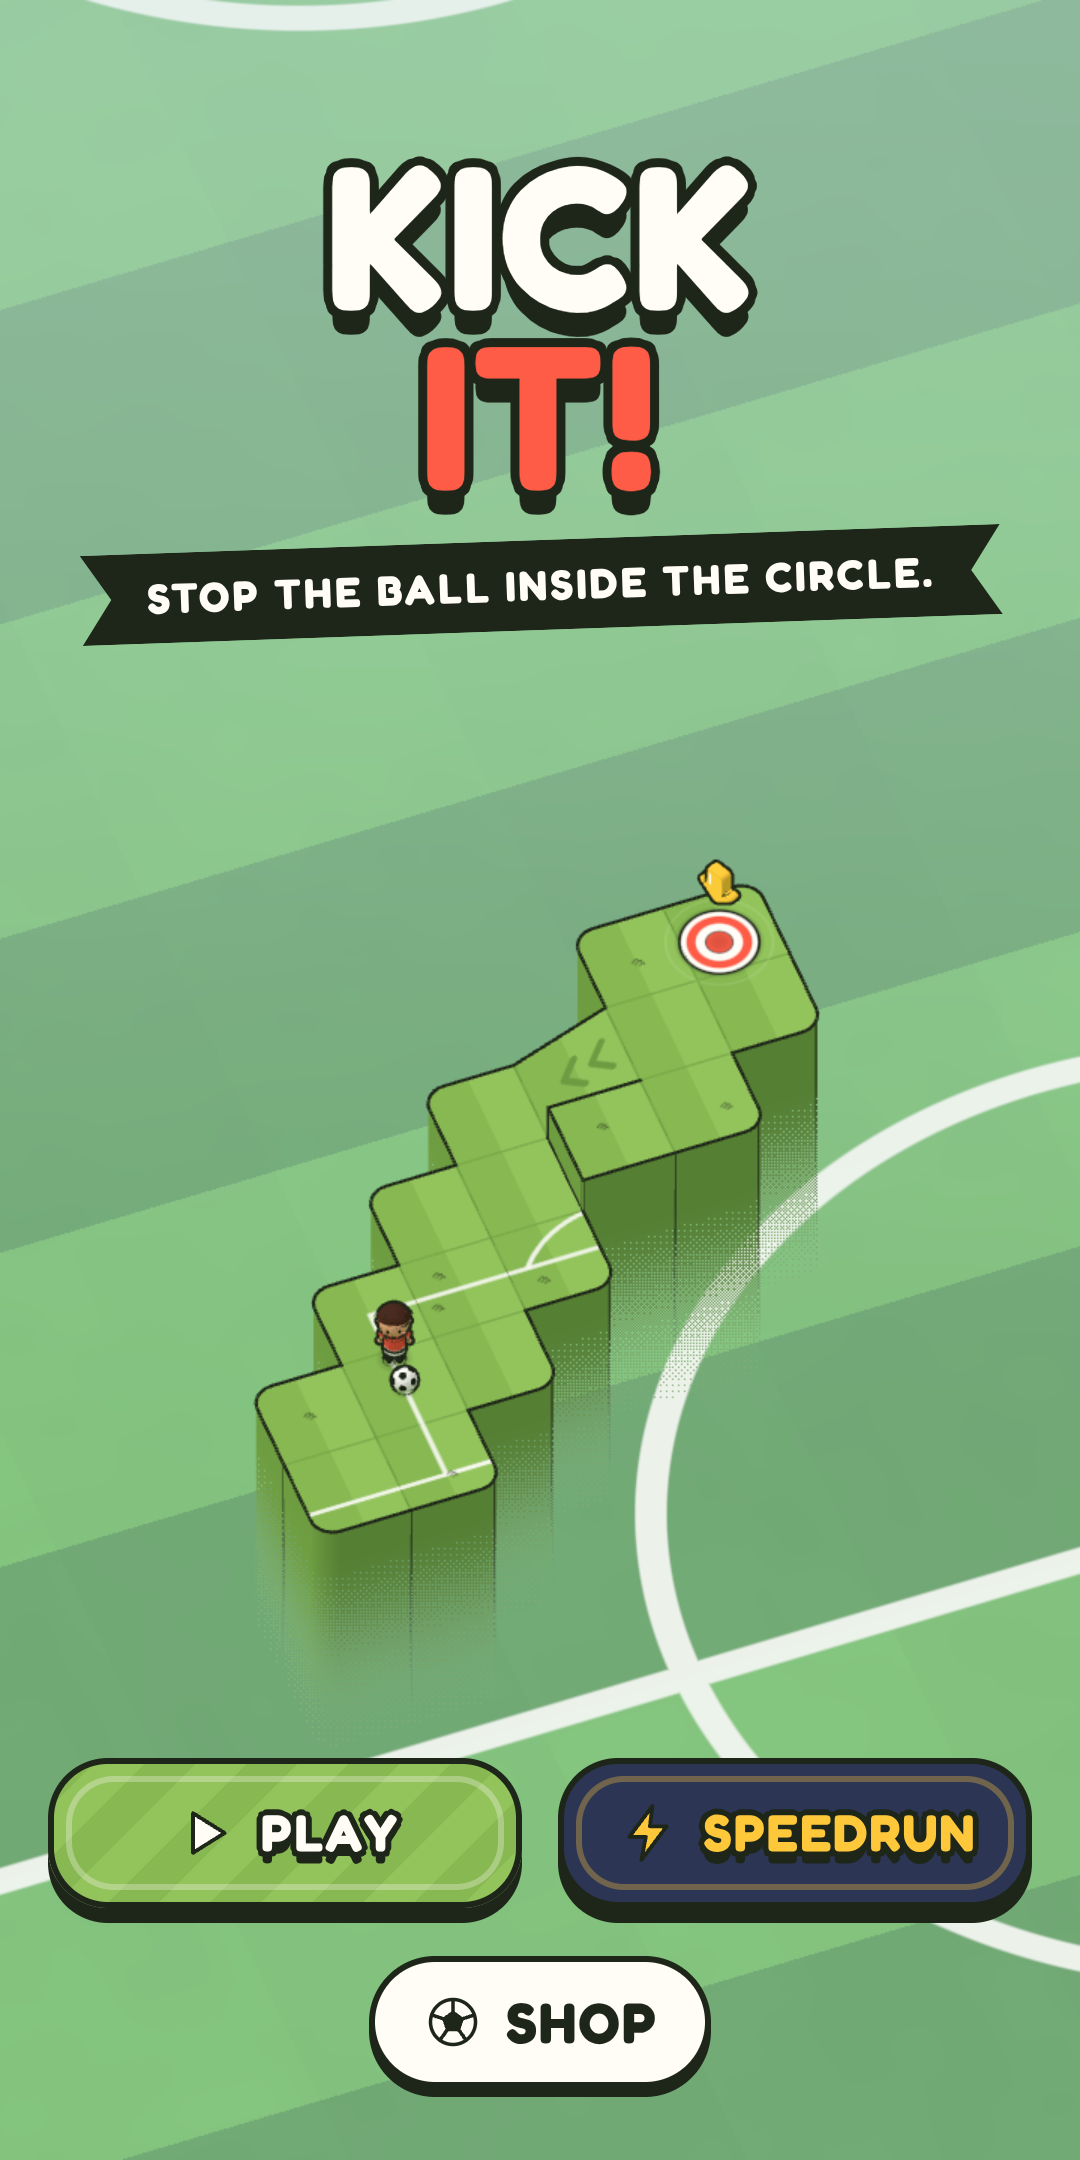
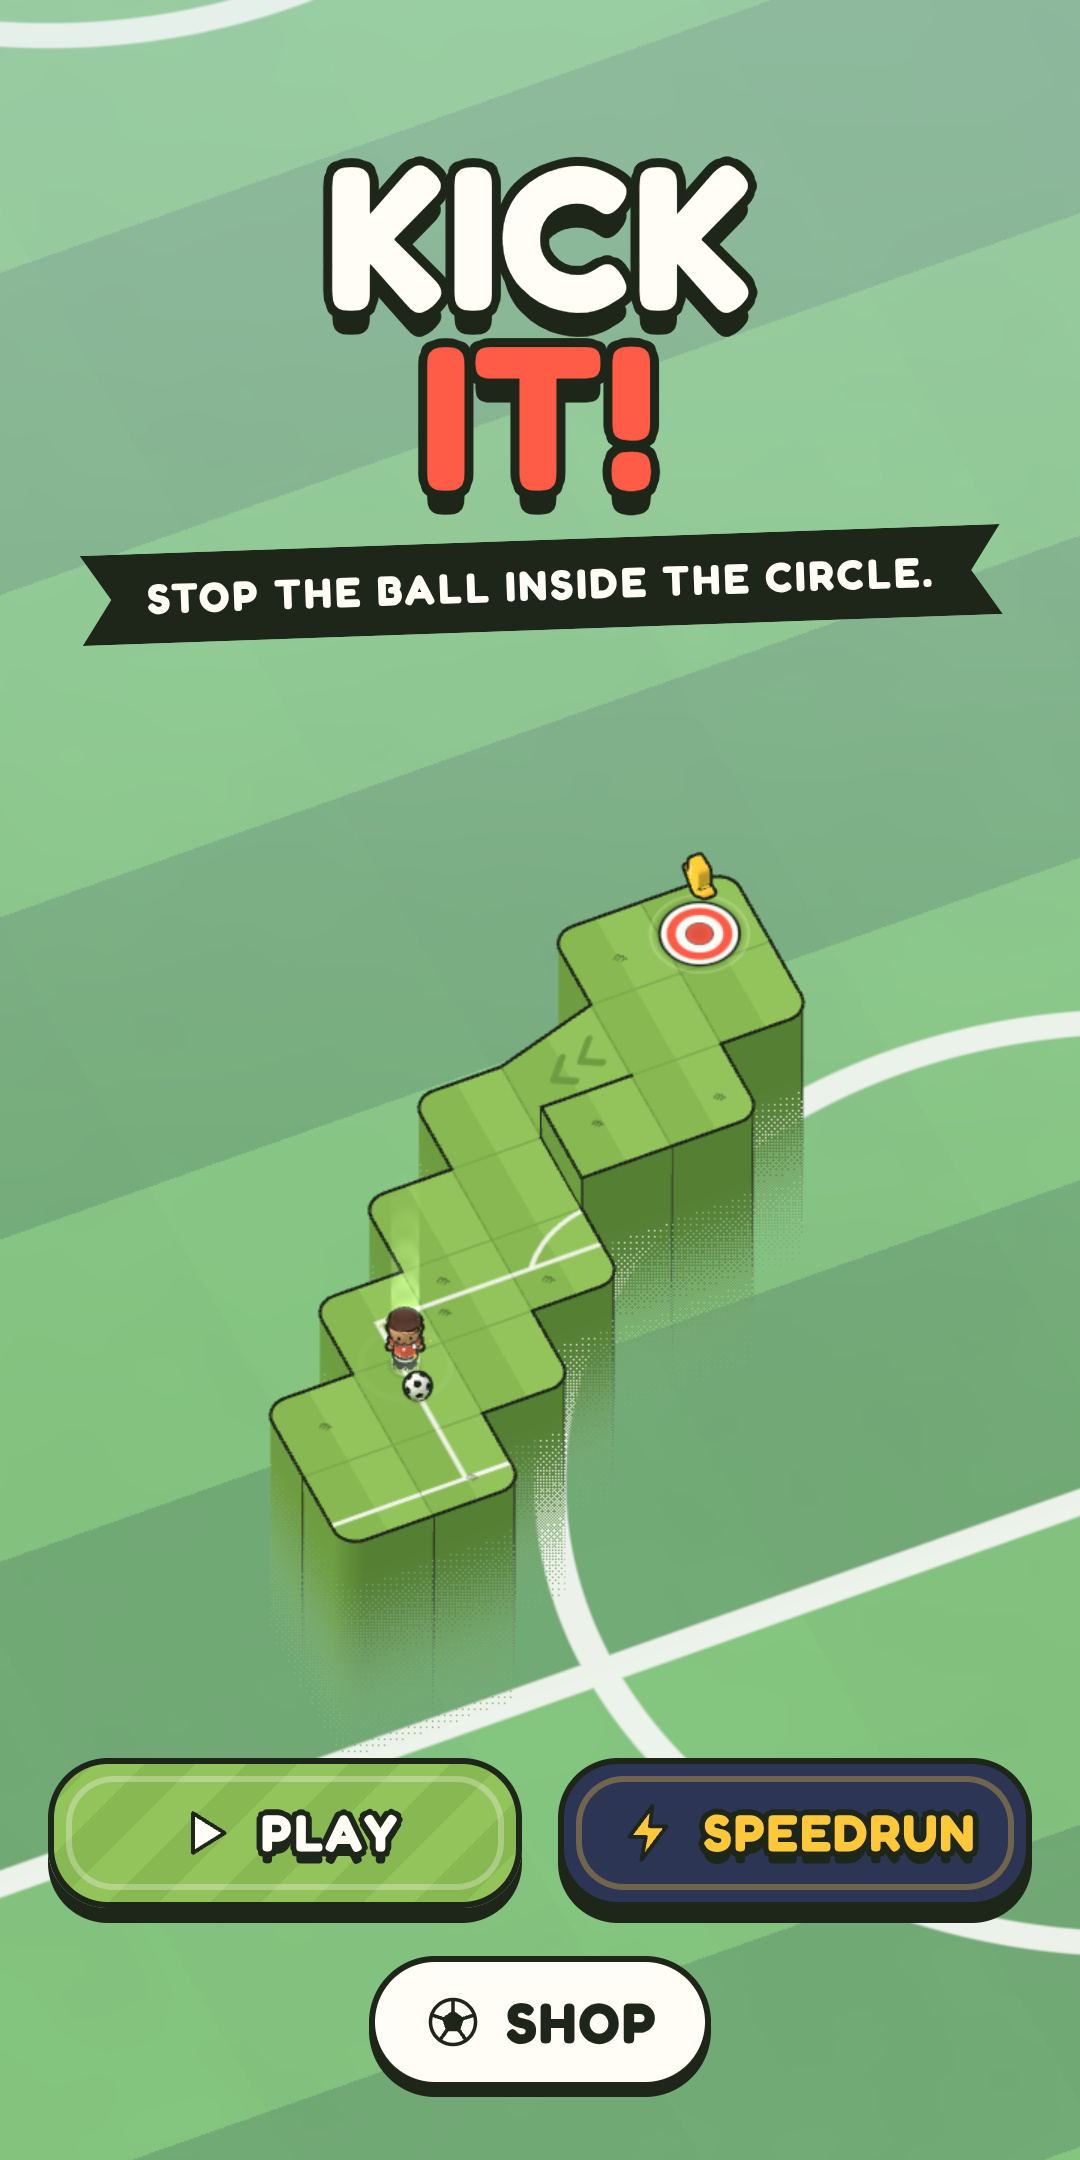
KickIt! 1.6.0: every ball has its own kick burst and rolling trail; new store screenshots

diff --git a/src/skins.ts b/src/skins.ts
@@ -16,32 +16,44 @@ export type Goal =
 /** What a ball is: a stitched football, or one of the round balls painted by src/ball.ts. */
 export type BallKind = 'soccer' | 'tennis' | 'basket' | 'volley' | 'base' | 'beach' | 'pool' | 'cricket' | 'bowling' | 'golf' | 'disco' | 'melon' | 'earth' | 'moon' | 'galaxy' | 'lava';
 
+/**
+ * A ball's own effect: the burst when it is kicked and the trail it leaves as
+ * it rolls. `look`: glowing sparks, or solid little bits (fuzz, dust, seeds);
+ * `move`: they drop like drops, float like dust, or rise like embers.
+ */
+export interface BallFx {
+  colors: string[];
+  look: 'spark' | 'bits';
+  move: 'fall' | 'float' | 'rise';
+}
+
 export interface Skin {
   id: string;
   name: string;
   kind: BallKind;
+  fx: BallFx;
   /** soccer: [hexagons, pentagons]; the round balls: up to four colours their pattern uses, in its order */
   colors: string[];
   goal: Goal;
 }
 
 export const SKINS: Skin[] = [
-  { id: 'classic', name: 'Classic', kind: 'soccer', colors: ['#fbfbf6', '#1e2619'], goal: { kind: 'free' } },
-  { id: 'tennis', name: 'Tennis', kind: 'tennis', colors: ['#d9ec4c', '#f6f8ee'], goal: { kind: 'floor', n: 5 } },
-  { id: 'basket', name: 'Basketball', kind: 'basket', colors: ['#e8772e', '#2a1c14'], goal: { kind: 'floor', n: 10 } },
-  { id: 'volley', name: 'Volleyball', kind: 'volley', colors: ['#ffd23f', '#2b5fd9', '#f7f7f2', '#3b4a63'], goal: { kind: 'floor', n: 20 } },
-  { id: 'base', name: 'Baseball', kind: 'base', colors: ['#f5f0e3', '#d0312d'], goal: { kind: 'floor', n: 30 } },
-  { id: 'beach', name: 'Beach ball', kind: 'beach', colors: ['#ff5c47', '#3fa7f5', '#ffd84a', '#fbfbf6'], goal: { kind: 'floor', n: 40 } },
-  { id: 'moon', name: 'Moon', kind: 'moon', colors: ['#d9dbe1', '#7f838f', '#ffffff'], goal: { kind: 'floor', n: 50 } },
-  { id: 'pool', name: '8-Ball', kind: 'pool', colors: ['#17181c', '#fbfbf6'], goal: { kind: 'clears', n: 25 } },
-  { id: 'cricket', name: 'Cricket', kind: 'cricket', colors: ['#b3262b', '#f3ead2'], goal: { kind: 'clears', n: 50 } },
-  { id: 'bowling', name: 'Bowling', kind: 'bowling', colors: ['#2b2f8f', '#8a5ae0', '#0d0d18'], goal: { kind: 'clears', n: 100 } },
-  { id: 'golf', name: 'Golf', kind: 'golf', colors: ['#f7f8f3', '#d9ddd3'], goal: { kind: 'ones', n: 5 } },
-  { id: 'disco', name: 'Disco', kind: 'disco', colors: ['#e9eef5', '#7fe8ff', '#ff8ad8', '#3d4250'], goal: { kind: 'ones', n: 25 } },
-  { id: 'melon', name: 'Watermelon', kind: 'melon', colors: ['#97d66e', '#2f7a35'], goal: { kind: 'speedrun' } },
-  { id: 'galaxy', name: 'Galaxy', kind: 'galaxy', colors: ['#121a4a', '#4b2a8c', '#ff6fb5', '#fff6d8'], goal: { kind: 'speedrun', under: 20 * 60 } },
-  { id: 'earth', name: 'Earth', kind: 'earth', colors: ['#2f80dc', '#63bd57', '#3f8f40', '#f4f8fb'], goal: { kind: 'speedrun', under: 14 * 60 } },
-  { id: 'lava', name: 'Lava', kind: 'lava', colors: ['#2b211f', '#ff5a1f', '#ffd23a'], goal: { kind: 'speedrun', under: 10 * 60 } },
+  { id: 'classic', name: 'Classic', kind: 'soccer', colors: ['#fbfbf6', '#1e2619'], fx: { colors: ['#ffffff', '#ffd84a'], look: 'spark', move: 'fall' }, goal: { kind: 'free' } },
+  { id: 'tennis', name: 'Tennis', kind: 'tennis', colors: ['#d9ec4c', '#f6f8ee'], fx: { colors: ['#d9ec4c', '#eef7a8', '#c3d93a'], look: 'bits', move: 'float' }, goal: { kind: 'floor', n: 5 } },
+  { id: 'basket', name: 'Basketball', kind: 'basket', colors: ['#e8772e', '#2a1c14'], fx: { colors: ['#ff8a3d', '#ffd08a', '#e8772e'], look: 'spark', move: 'fall' }, goal: { kind: 'floor', n: 10 } },
+  { id: 'volley', name: 'Volleyball', kind: 'volley', colors: ['#ffd23f', '#2b5fd9', '#f7f7f2', '#3b4a63'], fx: { colors: ['#ffd23f', '#2b5fd9', '#ffffff'], look: 'spark', move: 'fall' }, goal: { kind: 'floor', n: 20 } },
+  { id: 'base', name: 'Baseball', kind: 'base', colors: ['#f5f0e3', '#d0312d'], fx: { colors: ['#f5f0e3', '#d0312d', '#e9e2cf'], look: 'bits', move: 'float' }, goal: { kind: 'floor', n: 30 } },
+  { id: 'beach', name: 'Beach ball', kind: 'beach', colors: ['#ff5c47', '#3fa7f5', '#ffd84a', '#fbfbf6'], fx: { colors: ['#7fd3ff', '#ffffff', '#3fa7f5'], look: 'spark', move: 'fall' }, goal: { kind: 'floor', n: 40 } },
+  { id: 'moon', name: 'Moon', kind: 'moon', colors: ['#d9dbe1', '#7f838f', '#ffffff'], fx: { colors: ['#c9ccd4', '#9a9ea8', '#e4e6ec'], look: 'bits', move: 'float' }, goal: { kind: 'floor', n: 50 } },
+  { id: 'pool', name: '8-Ball', kind: 'pool', colors: ['#17181c', '#fbfbf6'], fx: { colors: ['#ffffff', '#e9eef5', '#ffd84a'], look: 'spark', move: 'fall' }, goal: { kind: 'clears', n: 25 } },
+  { id: 'cricket', name: 'Cricket', kind: 'cricket', colors: ['#b3262b', '#f3ead2'], fx: { colors: ['#ff5a4f', '#f3ead2', '#b3262b'], look: 'spark', move: 'fall' }, goal: { kind: 'clears', n: 50 } },
+  { id: 'bowling', name: 'Bowling', kind: 'bowling', colors: ['#2b2f8f', '#8a5ae0', '#0d0d18'], fx: { colors: ['#8a5ae0', '#c9b3ff', '#2b2f8f'], look: 'spark', move: 'fall' }, goal: { kind: 'clears', n: 100 } },
+  { id: 'golf', name: 'Golf', kind: 'golf', colors: ['#f7f8f3', '#d9ddd3'], fx: { colors: ['#ffffff', '#cfe8c0', '#9fd16a'], look: 'spark', move: 'fall' }, goal: { kind: 'ones', n: 5 } },
+  { id: 'disco', name: 'Disco', kind: 'disco', colors: ['#e9eef5', '#7fe8ff', '#ff8ad8', '#3d4250'], fx: { colors: ['#7fe8ff', '#ff8ad8', '#ffe27a', '#ffffff'], look: 'spark', move: 'float' }, goal: { kind: 'ones', n: 25 } },
+  { id: 'melon', name: 'Watermelon', kind: 'melon', colors: ['#97d66e', '#2f7a35'], fx: { colors: ['#e8414f', '#1d1d1d', '#ff7a85'], look: 'bits', move: 'fall' }, goal: { kind: 'speedrun' } },
+  { id: 'galaxy', name: 'Galaxy', kind: 'galaxy', colors: ['#121a4a', '#4b2a8c', '#ff6fb5', '#fff6d8'], fx: { colors: ['#ff6fb5', '#b98cff', '#fff6d8'], look: 'spark', move: 'float' }, goal: { kind: 'speedrun', under: 20 * 60 } },
+  { id: 'earth', name: 'Earth', kind: 'earth', colors: ['#2f80dc', '#63bd57', '#3f8f40', '#f4f8fb'], fx: { colors: ['#63bd57', '#2f80dc', '#ffffff'], look: 'spark', move: 'float' }, goal: { kind: 'speedrun', under: 14 * 60 } },
+  { id: 'lava', name: 'Lava', kind: 'lava', colors: ['#2b211f', '#ff5a1f', '#ffd23a'], fx: { colors: ['#ff5a1f', '#ffd23a', '#ff8a3d'], look: 'spark', move: 'rise' }, goal: { kind: 'speedrun', under: 10 * 60 } },
 ];
 
 /** The player's records the goals look at. */

diff --git a/src/game.ts b/src/game.ts
@@ -53,6 +53,7 @@ const LOBBY_ZOOM = 0.9; // the lobby shows the turning floor from farther away
 const SHOP_ZOOM = 2; // the shop: twice the lobby's zoom, on the ball
 const RESTART_ARM = 2; // s a Speedrun restart waits for its second tap
 const STARS_AT = 0.3; // s into a clear when its stars start landing
+const TRAIL_STEP = 0.07; // tiles a rolling ball goes between two pieces of its trail
 const LOBBY_SPIN = (Math.PI * 2) / 36; // rad/s: one turn every 36 s
 const UNSPIN_TIME = 1.0; // s, back to the game's angle when a mode starts
 const KEY_BEST = (m: Mode) => `skypitch.best.${m}`;
@@ -143,7 +144,8 @@ export class Game {
   private ride = { view: null as FloorView | null, tile: null as Tile | null, base: 0 };
   private beamT = 0;
   private hopT = 9;
-  private trailT = 0;
+  private trailDist = 0; // distance rolled since the trail's last piece
+  private trailN = 0;
   private lastGround = new THREE.Vector3();
 
   private playerMode: PlayerMode = 'gone';
@@ -1184,7 +1186,8 @@ export class Game {
     this.shopBalls?.hop(SKINS.indexOf(skin));
     this.hud.shopFeedback(id, true);
     this.hopT = 0;
-    this.fx.sparkle(this.ballPos.clone(), 16, { speed: 1.4, up: 1.6, size: 0.03, max: 0.6 });
+    // a taste of its kick: the ball's own burst
+    this.fx.ballKick(this.ballPos.clone(), 1, 1, 0.7, skin.fx);
     this.sfx.appear();
     platform.haptic.tick();
   }
@@ -1253,12 +1256,9 @@ export class Game {
     const foot = new THREE.Vector3(b.x, b.y - BALL_R + 0.01, b.z);
     this.fx.kickDust(foot, dir.x, dir.y, power);
     this.fx.ring(foot, 0.08, 0.32 + power * 0.35, 0.4, color.paper, 0.85);
-    this.fx.sparkle(new THREE.Vector3(b.x - dir.x * 0.1, b.y, b.z - dir.y * 0.1), 5 + Math.round(power * 9), {
-      speed: 1 + power * 1.5,
-      up: 0.8,
-      size: 0.03,
-      max: 0.35,
-    });
+    // the ball's own burst (fire, stardust, juice...)
+    this.fx.ballKick(new THREE.Vector3(b.x - dir.x * 0.08, b.y, b.z - dir.y * 0.08), dir.x, dir.y, power, this.skin.fx);
+    this.fx.ring(foot, 0.1, 0.45 + power * 0.4, 0.5, this.skin.fx.colors[0], 0.9);
     this.sfx.kick(power);
     platform.haptic.kick(power);
     if (!this.reduced) this.cam.addShake(0.12 + power * 0.32);
@@ -1335,11 +1335,16 @@ export class Game {
         // hop on a clear
         this.hopT += dt;
         if (this.hopT < 0.45) b.y += hump(this.hopT / 0.45) * 0.32;
-        // glints behind a fast ball
-        this.trailT -= dt;
-        if (s.moving && s.speed > 2.6 && this.trailT <= 0) {
-          this.trailT = 0.035;
-          this.fx.trail(b, 0.02 + Math.min(0.025, (s.speed - 2.6) * 0.01));
+        // the ball's own trail as it rolls: a piece every little way it goes
+        if (s.moving && s.speed > 0.6 && s.state !== 'fallen') {
+          this.trailDist += s.speed * dt;
+          const step = this.reduced ? TRAIL_STEP * 3 : TRAIL_STEP;
+          if (this.trailDist >= step) {
+            this.trailDist = 0;
+            const back = 1 / Math.max(0.001, s.speed);
+            this.tmp.set(b.x - s.vx * back * BALL_R * 0.8, b.y - BALL_R * 0.55, b.z - s.vz * back * BALL_R * 0.8);
+            this.fx.ballTrail(this.tmp, this.skin.fx, this.trailN++);
+          }
         }
         // the circle warms up as the ball settles in it
         const inside = inTarget(this.floor, s.x, s.z);

diff --git a/src/fx.ts b/src/fx.ts
@@ -1,6 +1,7 @@
 // Pooled effects: particles (sparkles, confetti, grass dust), ground
 // shockwave rings and teleport light beams. Nothing allocates per frame.
 import * as THREE from 'three';
+import type { BallFx } from './skins.ts';
 import { color } from './theme.ts';
 import { clamp, easeOutCubic } from './util.ts';
 
@@ -93,6 +94,9 @@ interface Beam {
   radius: number;
   height: number;
 }
+
+// gravity by how a ball's bits move: they drop, float, or rise like embers
+const BALL_GRAV = { fall: 7, float: 0.5, rise: -1.4 };
 
 const CONFETTI = [color.accent, color.gold, color.paper, '#6cc4f0', '#8fd16a', '#ff9bd0'];
 
@@ -235,6 +239,41 @@ export class Fx {
         hex: k % 3 === 0 ? color.grassSeam : k % 3 === 1 ? color.grassA : color.paint,
       });
     }
+  }
+
+  /** The ball's own burst on a kick: mostly the way it flies, some all round. */
+  ballKick(at: THREE.Vector3, dirX: number, dirZ: number, power: number, st: BallFx) {
+    const n = Math.round(16 + power * 24);
+    const fwd = Math.atan2(dirZ, dirX);
+    for (let k = 0; k < n; k++) {
+      const a = k % 3 === 0 ? Math.random() * Math.PI * 2 : fwd + (Math.random() - 0.5) * 1.6;
+      const s = (0.6 + Math.random() * 1.6) * (0.6 + power);
+      const up = st.move === 'rise' ? 1.4 + Math.random() * 1.4 : 0.8 + Math.random() * 1.6;
+      this.particle(st.look === 'spark' ? 0 : 2, at, new THREE.Vector3(Math.cos(a) * s, up, Math.sin(a) * s), {
+        size: (st.look === 'spark' ? 0.06 : 0.048) * (0.6 + Math.random() * 0.8),
+        max: (st.move === 'fall' ? 0.7 : 1.05) * (0.7 + Math.random() * 0.6),
+        grav: BALL_GRAV[st.move],
+        drag: 2.2,
+        hex: st.colors[k % st.colors.length],
+      });
+    }
+  }
+
+  /** One piece of the ball's trail as it rolls (the `k`-th, for its colour). */
+  ballTrail(at: THREE.Vector3, st: BallFx, k: number) {
+    const up = st.move === 'rise' ? 0.7 : st.move === 'float' ? 0.3 : 0.6;
+    this.particle(
+      st.look === 'spark' ? 0 : 2,
+      at,
+      new THREE.Vector3((Math.random() - 0.5) * 0.35, up * (0.6 + Math.random() * 0.8), (Math.random() - 0.5) * 0.35),
+      {
+        size: (st.look === 'spark' ? 0.048 : 0.038) * (0.7 + Math.random() * 0.6),
+        max: (st.move === 'fall' ? 0.6 : 0.9) * (0.8 + Math.random() * 0.4),
+        grav: BALL_GRAV[st.move],
+        drag: 1.4,
+        hex: st.colors[k % st.colors.length],
+      },
+    );
   }
 
   /** Single soft glint, for trails. */

diff --git a/README.md b/README.md
@@ -39,6 +39,8 @@ golf ball, disco ball, watermelon, the Earth, the Moon, a galaxy (its stars twin
 ball (its cracks glow). Each has its own goal: reach a floor, clear a number of
 floors, clear floors with the first kick, or finish a Speedrun (under a time, for the best ones).
 A locked ball shows as its shadow with its goal underneath; tap an unlocked one to play with it.
+Every ball has its own effect: a burst when it is kicked and a trail as it rolls (fire embers for
+the lava ball, stardust for the galaxy, juice and seeds for the watermelon...).
 Progress is saved on the device.
 
 **Tester mode** (for development): the bug button under the focus button turns it on. The
